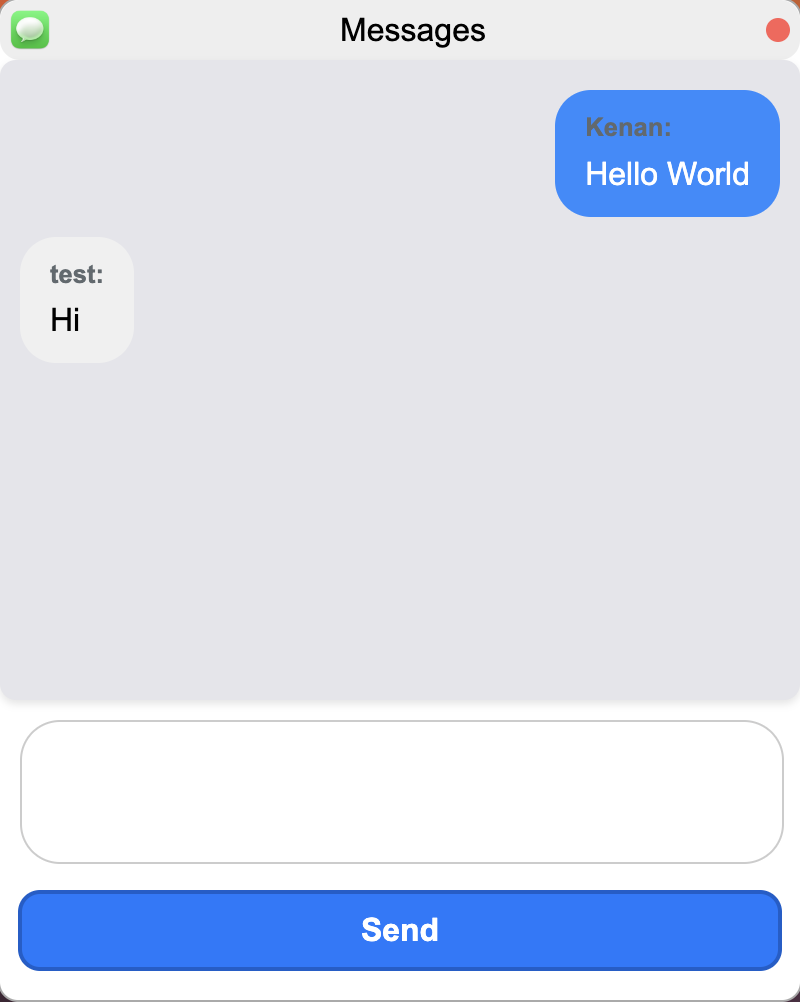
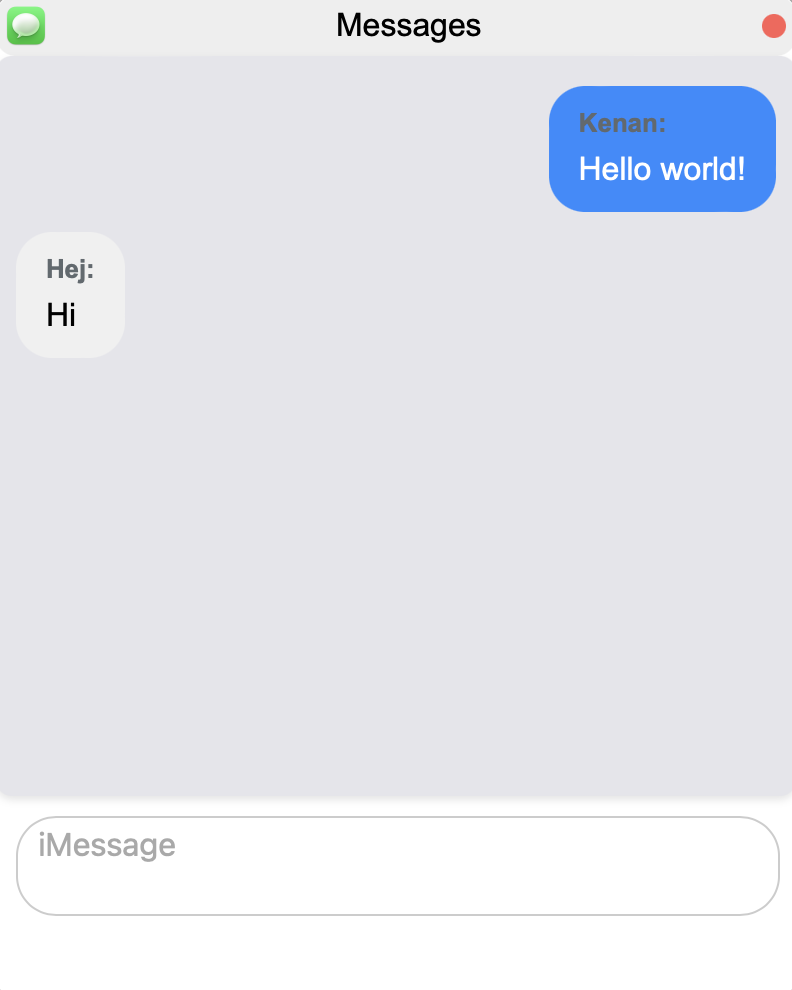
Updated readme

diff --git a/src/js/chat.js b/src/js/chat.js
@@ -50,7 +50,6 @@ export function openChatApp(container) {
       const newHeight = messageInput.scrollHeight;
       if (newHeight < previousHeight || newHeight > previousHeight) {
         messageInput.style.height = newHeight + 'px';
-        messageDisplay.style.height = messageDisplay.style.height - newHeight + 'px';
       }
     });
     messageInput.addEventListener('keydown', function(event) {

diff --git a/README.md b/README.md
@@ -120,7 +120,7 @@ The chat application mimics the iMessage interface, displaying chat bubbles in d
 
 1. Click on the Messages icon to start the chat application.
 2. If a username is stored in the local storage, the chat will initialize. If not, you will be prompted to enter a username. This username will be stored in the local storage for future sessions.
-3. Once the chat is initialized, you can type messages into the input field and press the "Send" button to send them. Messages you send will appear on the right side of the chat interface in blue bubbles.
+3. Once the chat is initialized, you can type messages into the input field and then press enter to send them. Messages you send will appear on the right side of the chat interface in blue bubbles.
 4. Messages received from others will appear on the left side of the chat interface in gray bubbles.
 5. Sound effects will play when messages are sent and received.
 
